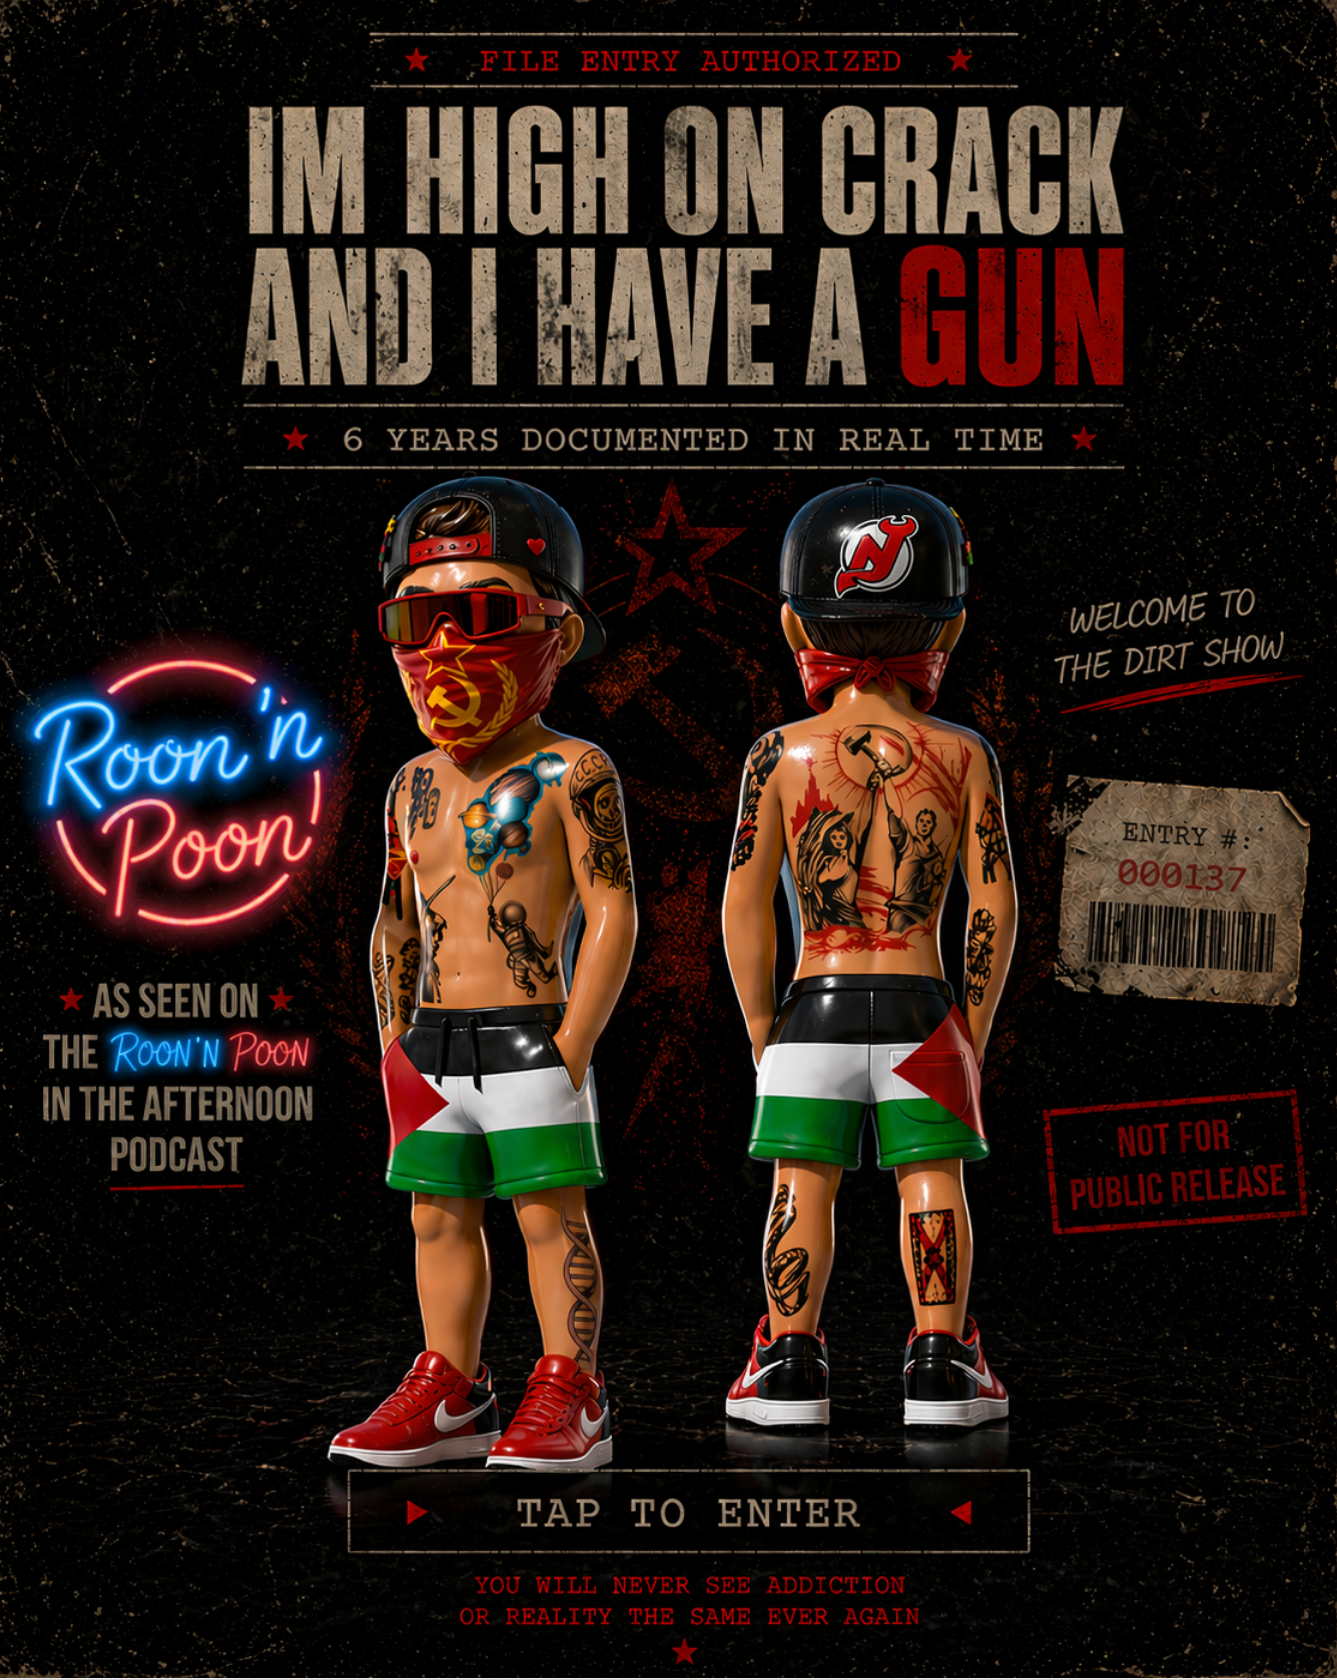
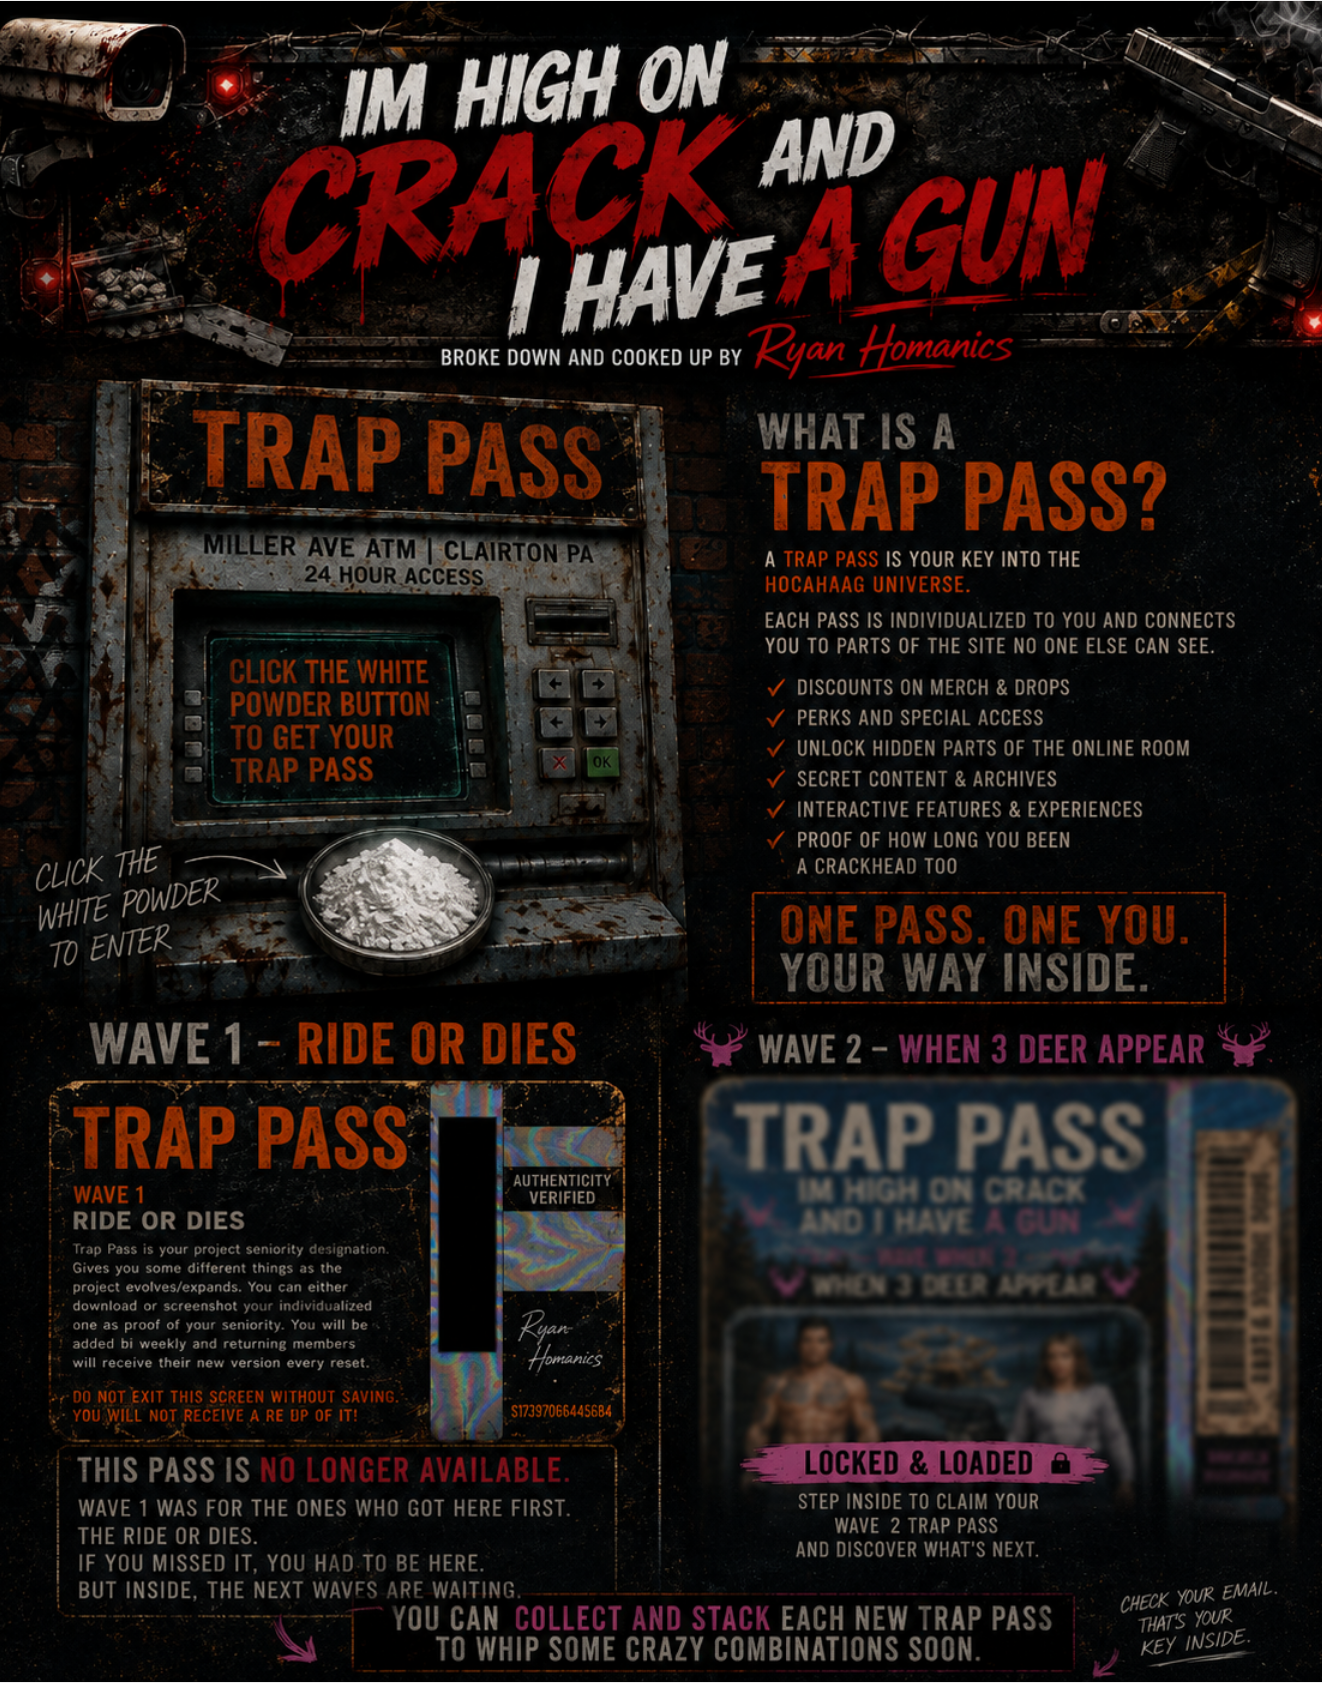
Replace entry graphic with Wave 2 Trap Pass art

diff --git a/index.html b/index.html
@@ -3160,7 +3160,7 @@
     <button class="entry-hit" id="entryHit" type="button" aria-label="Enter">
       <picture>
         <source srcset="trap-pass-wave-2-main.webp" type="image/webp">
-        <img class="entry-image" id="entryImage" src="trap-pass-wave-2-main.png" data-candidates="trap-pass-wave-2-main.png,entry-graphic.png,entry.jpg" alt="Trap Pass Wave 2 entry screen" width="1322" height="1683" decoding="async" fetchpriority="high">
+        <img class="entry-image" id="entryImage" src="trap-pass-wave-2-main.png" data-candidates="trap-pass-wave-2-main.png,entry-graphic.png" alt="Trap Pass Wave 2 entry screen" width="1322" height="1683" decoding="async" fetchpriority="high">
       </picture>
       <span class="entry-fallback" aria-live="polite">
         <span>
